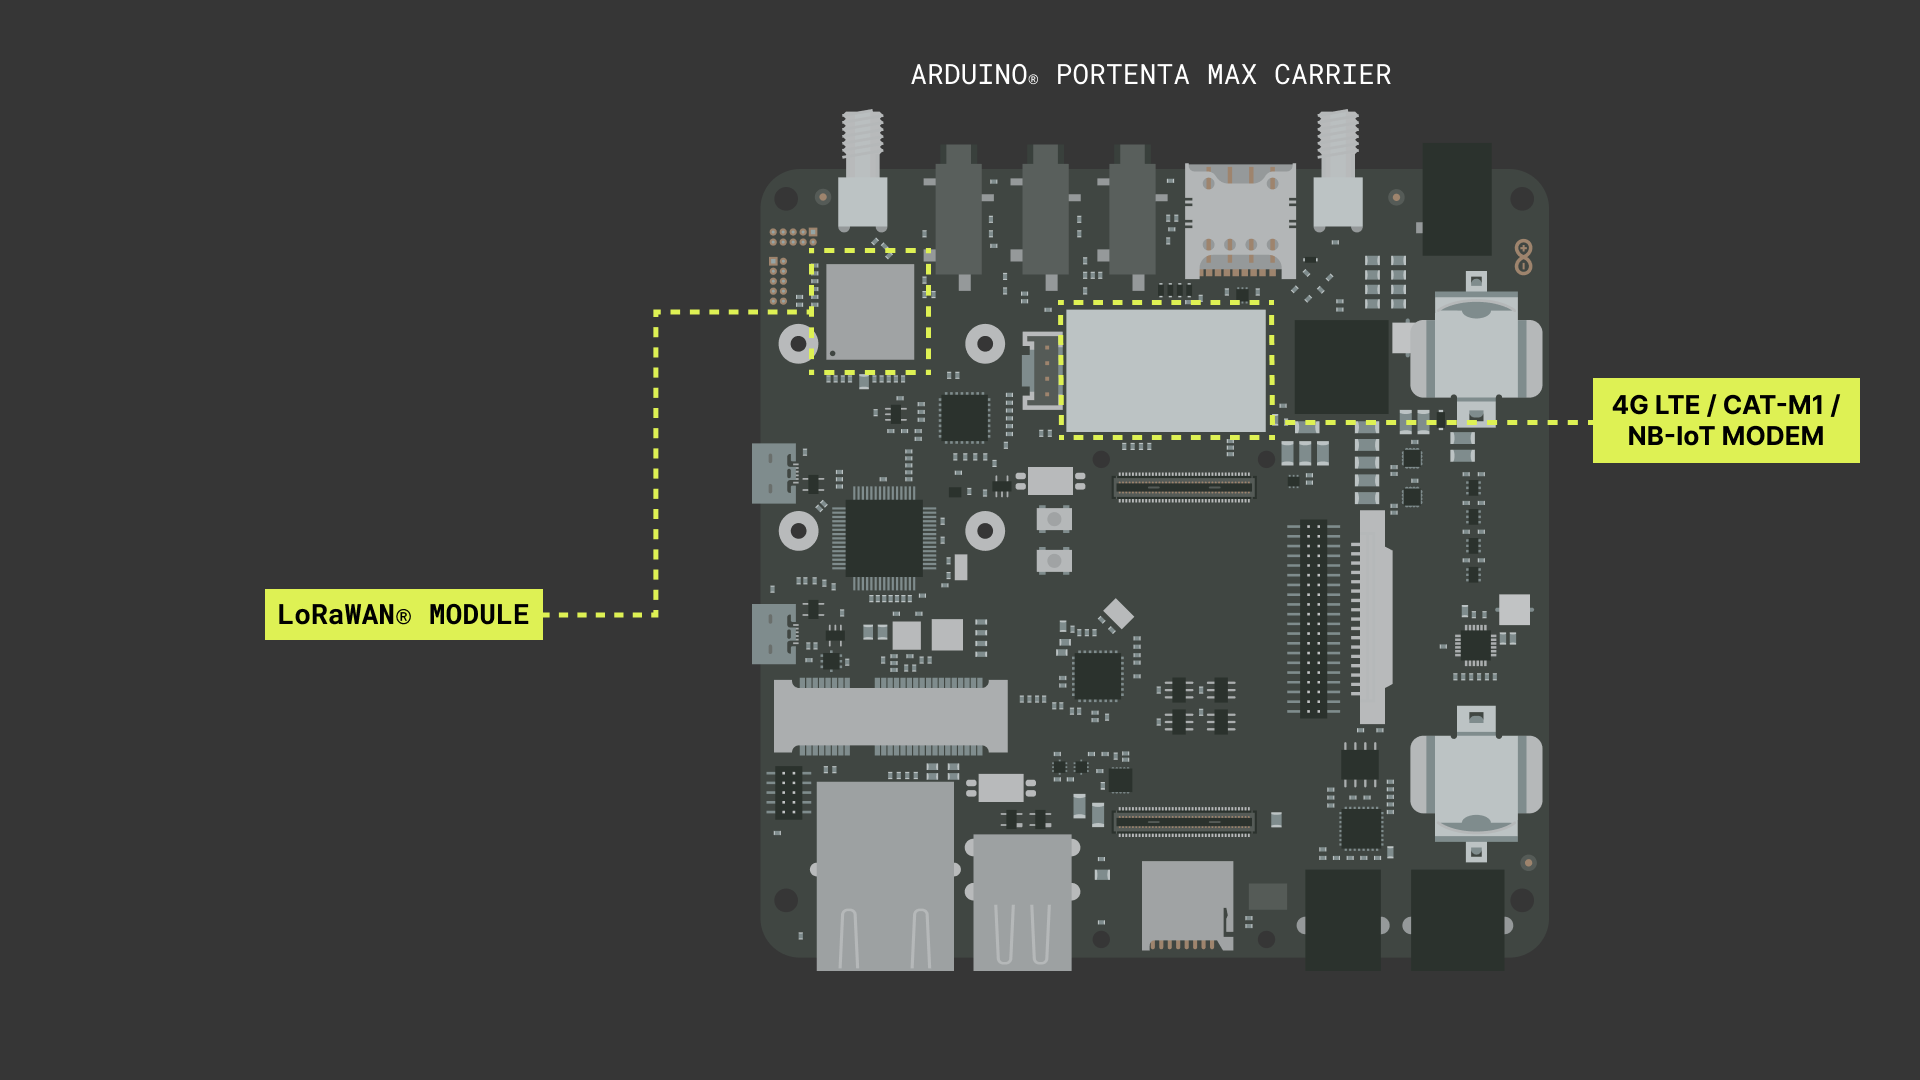
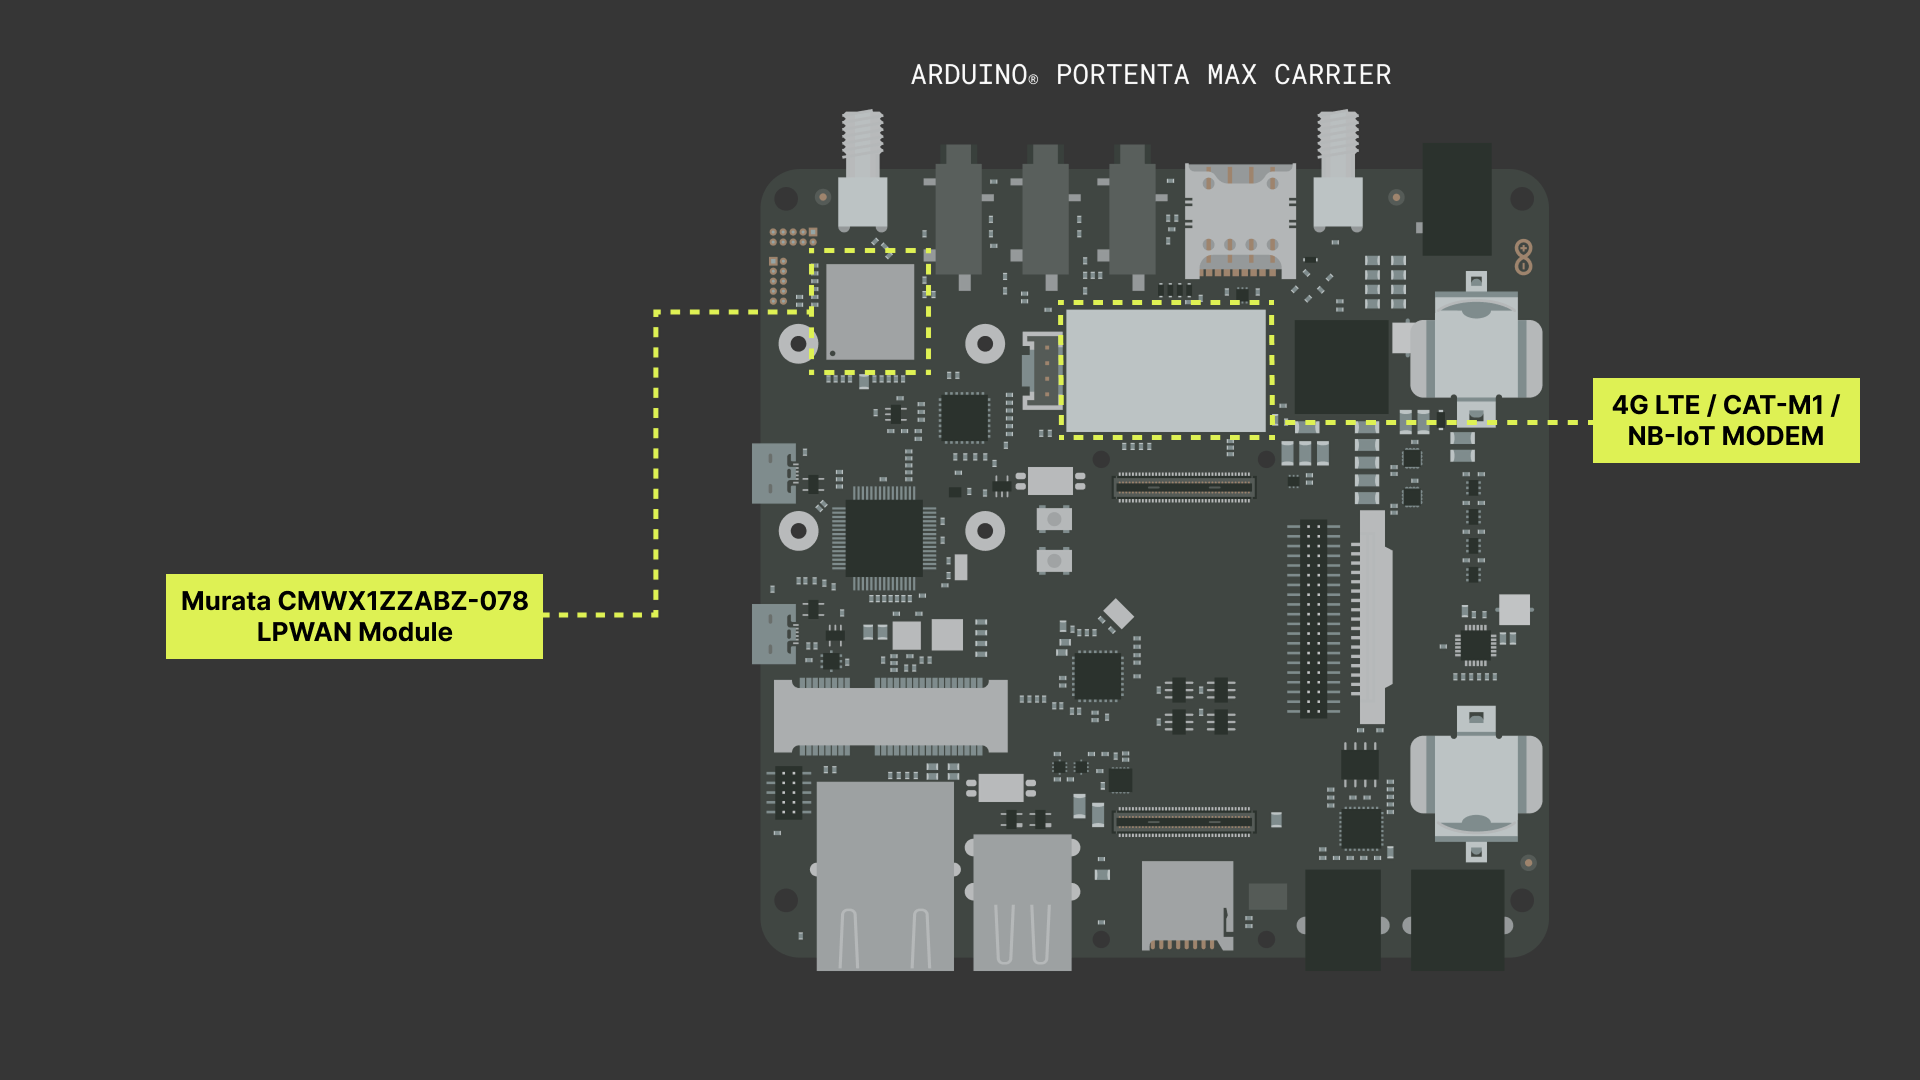
Getting Started with the Portenta Max Carrier content update (1 image update)

Changed region(s): [[0.0625, 0.5194, 0.2812, 0.6111]]

diff --git a/content/hardware/04.pro/carriers/portenta-max-carrier/_unlisted/getting-started/content.md b/content/hardware/04.pro/carriers/portenta-max-carrier/_unlisted/getting-started/content.md
@@ -68,7 +68,7 @@ The following image shows the Portenta Max Carrier's power inputs:
 
 ![Portenta Max Carrier Power Inputs](assets/mc_ard_power.png)
 
-These power feed line options power up different peripherals and modules depending on the line configuration. The Portenta H7 powered by USB-C® cable attached to Portenta Max Carrier enables Audio, LoRa®, USB Hub, SD port, and Fieldbus. The Debugger is also enabled, and it is also possible to upload the code at the same time. This power line use case will be useful to develop and debug the code.
+These power feed line options power up different peripherals and modules depending on the line configuration. The Portenta H7 powered by USB-C® cable attached to Portenta Max Carrier enables Audio, LoRa® connectivity, USB Hub, SD port and Fieldbus. The Debugger is also enabled, and it is also possible to upload the code at the same time. This power line use case will be useful to develop and debug the code.
 
 **If the Arduino IDE throws an error failing to upload the code, please set the Portenta H7 in Bootloader Mode before uploading.**
 
@@ -133,19 +133,21 @@ The Portenta Max Carrier equips two different memory units onboard: Flash Memory
 
 #### 1.4. Wireless Connectivity
 
-The Portenta Max Carrier has on-board Murata CMWX1ZZABZ-078 LoRaWAN® Module and SARA-R412M-02B Cell Modem shown in the following image below:
+The Portenta Max Carrier has on-board Murata CMWX1ZZABZ-078 LPWAN Module and SARA-R412M-02B Cell Modem shown in the following image below:
 
 ![Portenta Max Carrier Connectivity Module](assets/mc_ard_conn_module.png)
 
-#### LoRaWAN® Module - Murata CMWX1ZZABZ-078
+#### Murata CMWX1ZZABZ-078 LPWAN Module
 
-One of the notable features of Portenta Max Carrier is the Murata [CMWX1ZZABZ-078](https://www.murata.com/products/connectivitymodule/lpwa/overview/lineup/type-abz-078) that enables LoRaWAN® connectivity. LoRaWAN® is a Low Power Wide Area Network (LPWAN) designed to connect low-power devices to the Internet. It was developed to meet and fulfill Internet of Things (IoT) devices' requirements, such as low-power consumption and low data throughput.
+One of the notable features of Portenta Max Carrier is the Murata [CMWX1ZZABZ-078](https://www.murata.com/products/connectivitymodule/lpwa/overview/lineup/type-abz-078), which provides LoRa® technology connectivity. LoRa-based network is a type of Low Power Wide Area Network (LPWAN) designed to connect low-power devices to the Internet.
+
+It was developed to address the specific needs of Internet of Things (IoT) devices, including low power consumption and efficient data transmission over long distances.
 
 Depending on the region, it will require to use an appropriate antenna for the respective frequencies. The common frequencies are 915 MHz for North America and Australia, and 863 MHz for European region. Frequencies are on a range, so for example, Australian region is possible to use a 928 MHz compatible antenna and configuration.
 
-***For more in-depth information about LoRa® and LoRaWAN®, please read [The Arduino Guide to LoRa® and LoRaWAN®](https://docs.arduino.cc/learn/communication/lorawan-101).***
+***For more in-depth information about LoRa® and its networks, please refer to this [documentation](https://docs.arduino.cc/learn/communication/lorawan-101).***
 
-For the LoRa® Connection tutorial with in-depth details on how to power up the module and establish a connection to The Things Network (TTN), please go [here](https://docs.arduino.cc/tutorials/portenta-max-carrier/connecting-to-ttn) for more information.
+For the LoRa® connection tutorial with in-depth details on how to power up the module and establish a connection to The Things Network (TTN), please go [here](https://docs.arduino.cc/tutorials/portenta-max-carrier/connecting-to-ttn) for more information.
 
 #### Cell Modem - SARA-R412M-02B
 
@@ -161,7 +163,7 @@ We will use the `arduino_secrets.h` header file for the PIN and APN configuratio
 
 If you want to learn how to run a sketch with this library or how to switch between Cat M1 and NB IoT, please take a look at our [Portenta Max Carrier and Portenta H7 Cat M1/NB IoT tutorial](https://docs.arduino.cc/tutorials/portenta-max-carrier/catm1-and-nbiot)
 
-The antenna connectors for both LoRaWAN® and cellular modem with the microSIM slot are indicated in the following image:
+The antenna connectors for both LoRa® connectivity and cellular modem with the microSIM slot are indicated in the following image:
 
 ![Portenta Max Carrier Antenna Connectors and microSIM Slot](assets/mc_ard_antenna_sma.png)
 
@@ -197,7 +199,7 @@ The following image indicates the connectors that enable and allows to establish
 
 ### 2. Basic Setup of the Portenta Max Carrier
 
-The Portenta Max Carrier only requires the Portenta H7 as the main unit to be able to use it. External components are required to enable the onboard module's capability and correct operation, such as cellular modem and LoRaWAN® connectivity. As the Portenta H7 is the central control unit of the Portenta Max Carrier, it will need to have the latest **Arduino Mbed OS Portenta Core** installed.
+The Portenta Max Carrier only requires the Portenta H7 as the main unit to be able to use it. External components are required to enable the onboard module's capability and correct operation, such as cellular modem and LoRa® connectivity. As the Portenta H7 is the central control unit of the Portenta Max Carrier, it will need to have the latest **Arduino Mbed OS Portenta Core** installed.
 
 If it is not installed or requires an update, it is possible to navigate under **Tools > Board > Board Manager** and search for the `Arduino Mbed OS Portenta Core` and proceed with the update.
 
@@ -345,3 +347,7 @@ One may encounter issues setting up and initializing for the first time the Port
 - When sketch upload fails, please check if the Portenta H7 attached to Portenta Max Carrier is in bootloader mode. Double-press the RESET button and the Green LED will be waving, indicating it has entered bootloader mode. Please retry uploading the sketch afterward.
 
 - Verify that the BOOT DIP switch of the Portenta Max Carrier has been configured to an address. Otherwise, the paired Portenta H7 will go into bootloader mode after power-on and it will not initialize the program.
+
+## Trademark Acknowledgments
+
+- **LoRa®** is a registered trademark of Semtech Corporation.
